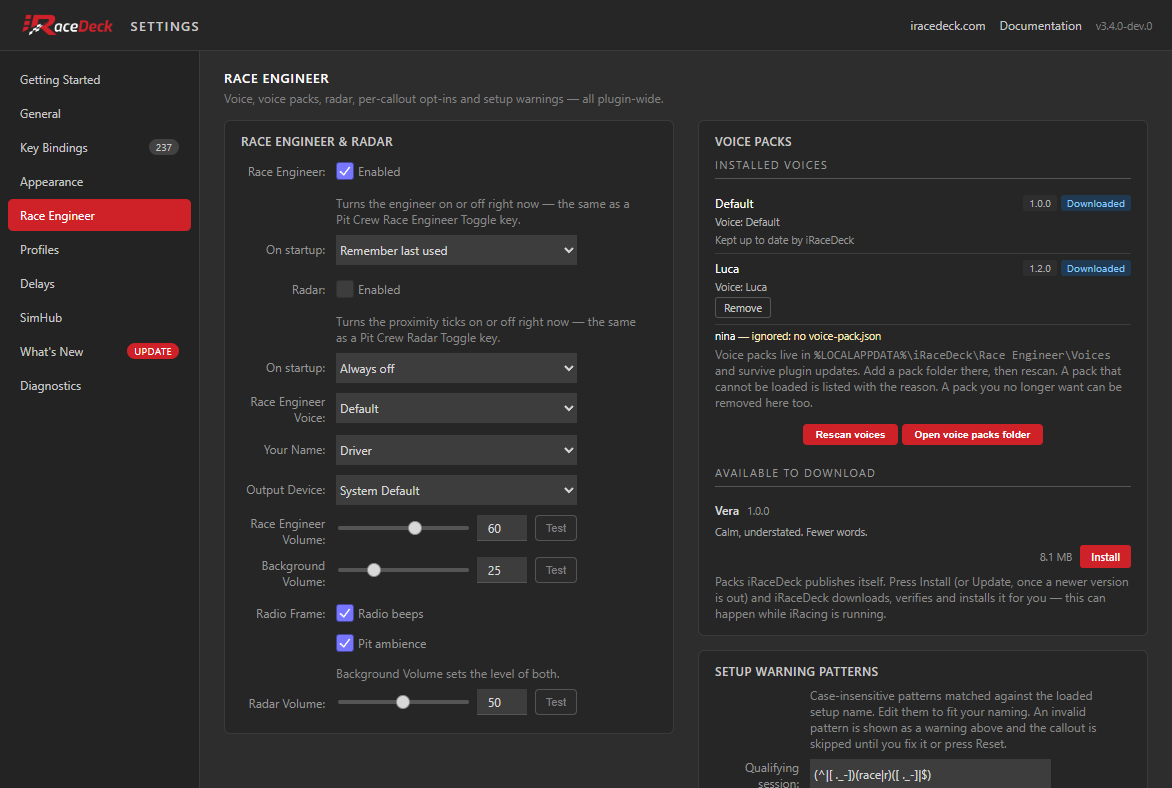
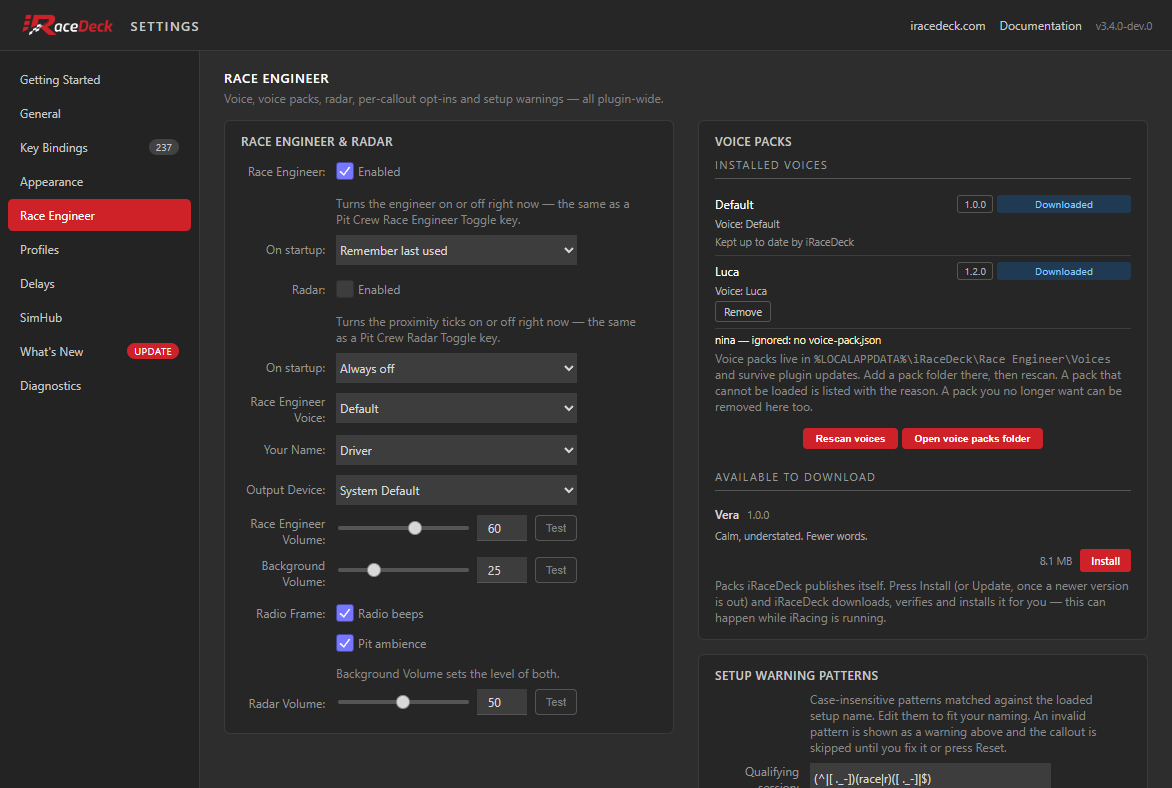
improve(pi-components): voice pack badges line up at both edges, version pill outlined (#1145)
Right-aligned pills lined up only the badges' right edges; a fixed badge width makes every badge start at the same x, as the issue asks. The grey version fill all but vanished into the card, so it is an outline now. The full-width help-text modifier moves to head-common beside its base class, pinned by a test, and the arm-identity comments now name the voices.

diff --git a/packages/pi-components/src/components/voice-pack-list.ts b/packages/pi-components/src/components/voice-pack-list.ts
@@ -274,7 +274,8 @@ export class VoicePackList extends HTMLElement {
   private armed: string | null = null;
   private armedTimer: number | null = null;
   /**
-   * The armed pack's identity when it was armed — id, version and label.
+   * The armed pack's identity when it was armed — see {@link identityOf} for
+   * what that covers.
    *
    * Presence of the id alone is not enough. The pack at a given id is the
    * FOLDER at that name, and its manifest can be edited in place: same id, new
@@ -347,13 +348,21 @@ export class VoicePackList extends HTMLElement {
          same pack, not a number floating beside a badge. */
       ird-voice-pack-list .ird-vp-pill {
         padding: 1px 6px;
+        border: 1px solid transparent;
         border-radius: 3px;
         font-size: 7.5pt;
         letter-spacing: 0.2px;
         white-space: nowrap;
         font-family: "Segoe UI", Arial, Roboto, Helvetica, sans-serif;
       }
-      ird-voice-pack-list .ird-vp-version { background: #2e2e2e; color: #b4b4b4; }
+      /* An outline, not a fill: a grey fill all but vanished into the card
+         (#262626) and read as one blob beside the grey bundled-seed badge. */
+      ird-voice-pack-list .ird-vp-version { border-color: #555555; color: #b4b4b4; }
+      /* Fixed width, text centred: the pills are right-aligned, so without it
+         only the badges' RIGHT edges line up and "Downloaded" starts further
+         right than "Installed by hand". Sized to the longest label, "Installed
+         by iRaceDeck"; a longer one would only widen its own badge. */
+      ird-voice-pack-list .ird-vp-badge { min-width: 12em; text-align: center; }
       ird-voice-pack-list .ird-vp-voices { color: #b4b4b4; font-size: 8pt; overflow-wrap: anywhere; }
       ird-voice-pack-list .ird-vp-action { display: flex; align-items: center; min-width: 0; }
       ird-voice-pack-list .ird-vp-empty { color: #969696; font-size: 9pt; padding: 3px 0; }
@@ -427,9 +436,9 @@ export class VoicePackList extends HTMLElement {
    * - **Arming another pack's Remove**, which follows from `armed` being a
    *   single id rather than a flag per row.
    * - **A successful removal**, since `render` drops an armed pack the scan no
-   *   longer lists — or one whose id is still there under a different version
-   *   or label, which is a folder edited in place rather than the pack the arm
-   *   was given to.
+   *   longer lists — or one whose id is still there under a different version,
+   *   label, badge or set of voices, which is a folder edited in place rather
+   *   than the pack the arm was given to.
    *
    * What deliberately does NOT cancel: blur, and a click elsewhere on the page.
    * The settings window is one long scrolling page a user clicks around in —
@@ -465,8 +474,8 @@ export class VoicePackList extends HTMLElement {
   /**
    * What makes an armed pack the SAME pack on a later scan.
    *
-   * Id plus every pack-derived cell a row displays: label, version and the
-   * provenance badge. A folder replaced at the same id keeps the id and changes
+   * Id plus every pack-derived cell a row displays: label, version, the
+   * provenance badge and the voice labels (#1145). A folder replaced at the same id keeps the id and changes
    * some of these, and a row the user reads as different must not inherit an
    * arm they gave to what was there before — including the case where only the
    * badge flips, a catalog copy swapped for a hand-placed one.

diff --git a/packages/pi-components/src/build/voice-packs-partial.test.ts b/packages/pi-components/src/build/voice-packs-partial.test.ts
@@ -81,6 +81,12 @@ describe("voice-packs partial (#1145)", () => {
     expect(html).not.toContain('class="ird-supporting-text"');
   });
 
+  it("styles the modifier beside the base help-text class, so any page including the partial gets it", () => {
+    const headCommon = readFileSync(path.join(partialsDir, "head-common.ejs"), "utf-8");
+
+    expect(headCommon).toMatch(/\.ird-supporting-text\.ird-supporting-text-full\s*\{[^}]*padding-left:\s*0/);
+  });
+
   it("renders NOTHING voice-pack related outside the settings window", () => {
     const html = render({});
 
